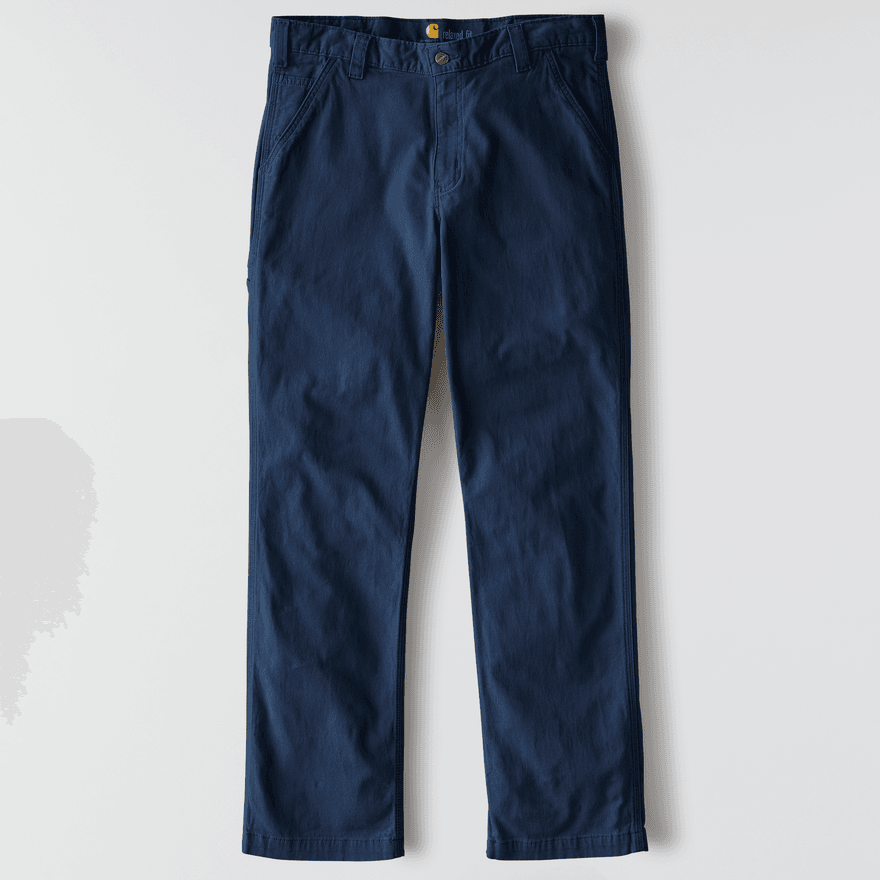
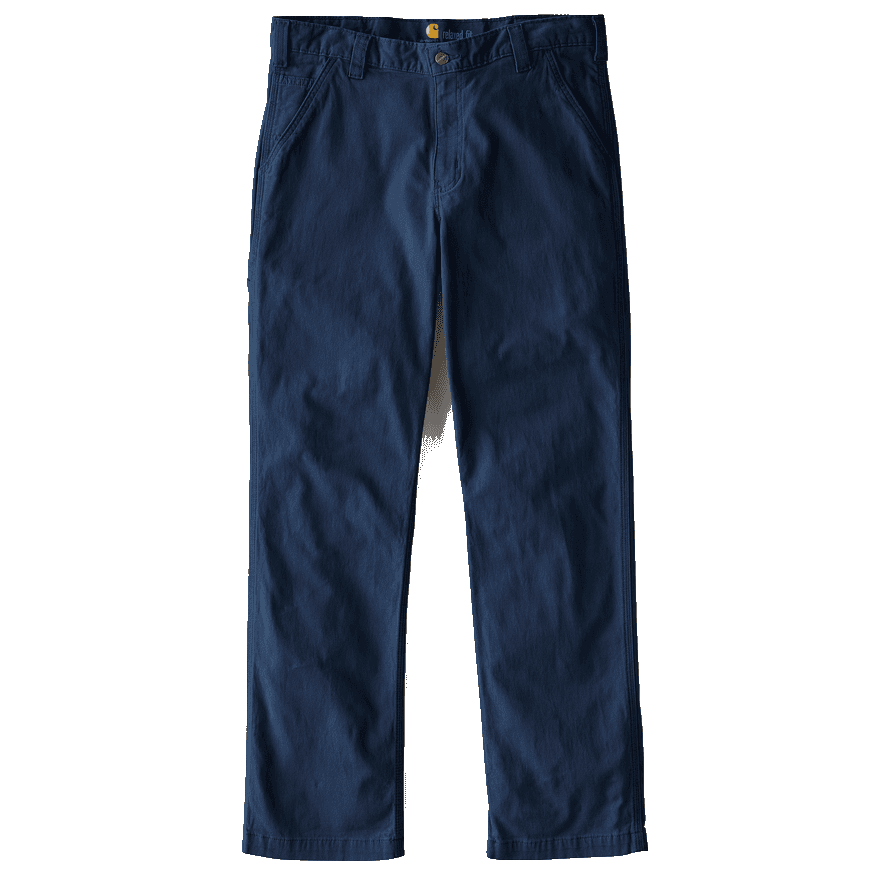
UI: close header/tab-bar seam, distinct sidebar tint, white pants bg
- Sticky strips (catalog tabs, apparel titlebar, PDP breadcrumb) now pin 1px
  under the header's bottom instead of flush against it, so scrolling content
  no longer flashes through the sub-pixel seam between the two fixed bars.
- Filter sidebar goes a touch deeper (#d8dce0) than the tab bar / product
  panels (#e0e3e6) so it reads as a distinct recessed column rather than
  matching the bar it sits beneath.
- White out the grey studio background (and drop shadow) on the Carhartt
  Rigby Dungaree Pants (MN-1, /sku/pants.png).

Claude-Session: https://claude.ai/code/session_01PBck1jC3nmLRrJpKgFy7V1

diff --git a/src/global.css b/src/global.css
@@ -10021,9 +10021,10 @@ details[open] > .cart-drawer__checkout-title::after {
        above where the bar now sits — so the filters scrolled ~8px under the bar
        before catching, which read as not sticking until a few px of scroll. */
     top: calc(var(--wt-header-pin) + 44px - 1px);
-    /* Medium light-gray sidebar surface — darker than the page/product panels so
-       the filter column reads as a distinct block beside the product list. */
-    background: #e0e3e6;
+    /* Medium light-gray sidebar surface, a touch deeper than the tab bar /
+       product panels (--mn-bar-bg #e0e3e6) so the filter column reads as a
+       distinct recessed block instead of matching the bar it sits under 100%. */
+    background: #d8dce0;
     box-shadow: none;
     border-radius: 2px;
     padding: 0.35rem 0 0.85rem;
@@ -11099,7 +11100,15 @@ details[open] > .cart-drawer__checkout-title::after {
 .site-header--hero-hidden { height: var(--wt-header-h) !important; }
 .home-catalog__header,
 .apparel-titlebar,
-.pdp-breadcrumb { top: var(--wt-header-pin) !important; }
+.pdp-breadcrumb {
+  /* Pin 1px UNDER the header's bottom edge rather than flush against it.
+     Flush (top: --wt-header-pin) leaves a shared seam line where, at
+     fractional scroll offsets, the header and this strip round to positions
+     1px apart and the scrolling content behind flashes through. Overlapping
+     the header by 1px means one of the two opaque bars always covers that
+     row, so nothing peeks through. */
+  top: calc(var(--wt-header-pin) - 1px) !important;
+}
 /* The apparel route pins these as `fixed` rather than sticky on phones — same
    offset, same source. */
 @media (max-width: 600px) {
